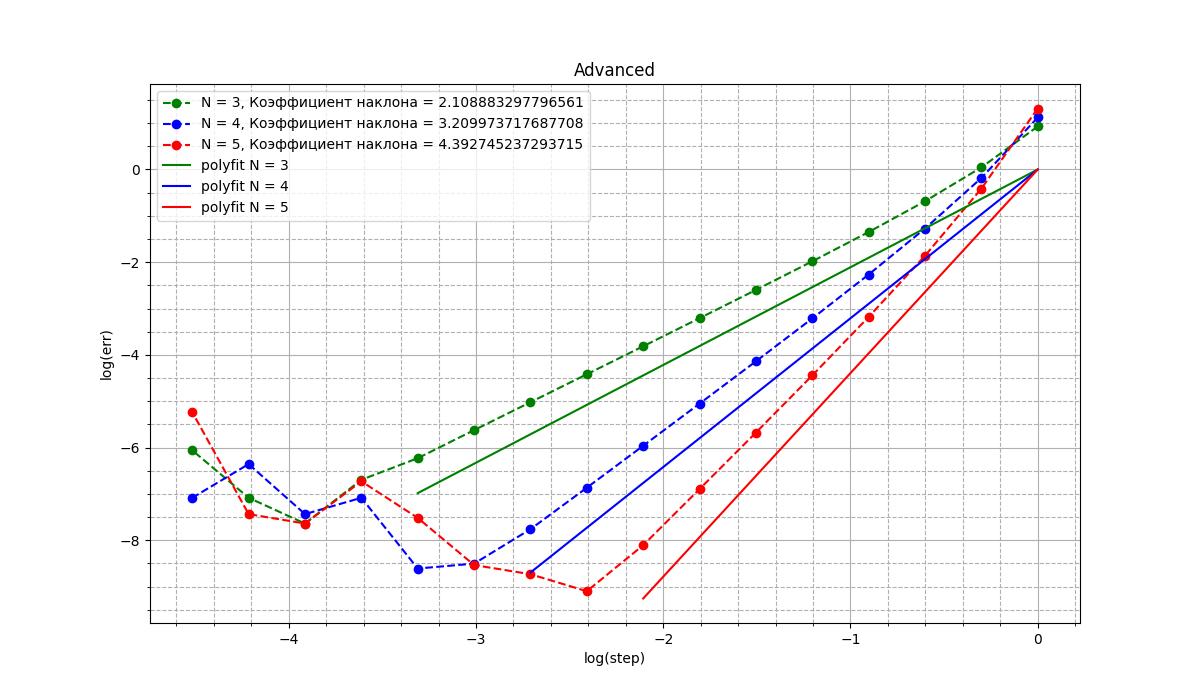
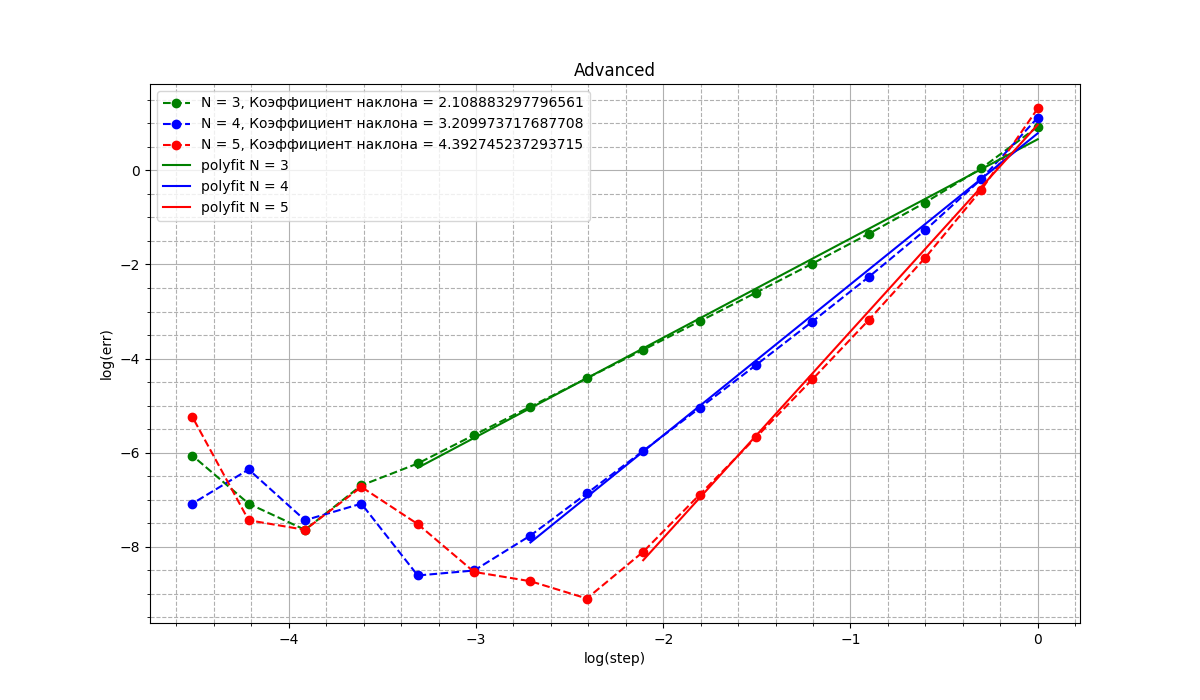
fix2 first lab

diff --git a/tests/NumDiffTest.cpp b/tests/NumDiffTest.cpp
@@ -106,7 +106,7 @@ TEST(NumDiffTests, mainAdvancedTest){
     for(std::uint64_t i =0; i + 1 < h.size(); i++) {
         h[i + 1] = h[i] * 0.5;
     }
-
+    for(auto&& it:h) std::cout<<it<<"\n";
     DerivativeCoef<double, N3> answN3 = calcDerivativeCoef<double, N3, L>(pointsN3);
     for(auto&& it : h){
         double DN3 = answN3.centralCoef * std::exp(x);
@@ -137,4 +137,20 @@ TEST(NumDiffTests, mainAdvancedTest){
     }
     fileOut<<std::endl;
     fileOut.close();
+}
+
+TEST(NumDiffTests, dopQuestionTest){
+    constexpr double x = 1;
+    constexpr std::uint64_t N3 = 3;
+    std::array<double, N3> pointsN3={1., 2., 3.};
+    double epsilon = 2.22044604925031308e-16;
+    double h_opt = std::pow(4*epsilon/3., 0.25);
+    DerivativeCoef<double, N3> answN3 = calcDerivativeCoef<double, N3>(pointsN3);
+    double DN3 = answN3.centralCoef * std::exp(x);
+    for(std::uint64_t j = 0; j < pointsN3.size(); j++){
+        DN3+=answN3.otherCoefs[j] * std::exp(x + pointsN3[j]*h_opt);
+    }
+    std::cout<<h_opt<<" "<<std::abs(DN3/h_opt - std::exp(x));
+
+
 }

diff --git a/py/NumDiff/main.py b/py/NumDiff/main.py
@@ -79,9 +79,9 @@ def grafik2():
              color = 'blue', label=f'N = 4, Коэффициент наклона = {coef2[0]}')
     plt.plot(np.log10(h), np.log10(line3), linestyle='dashed', marker='o', markerfacecolor='red',
              color = 'red', label=f'N = 5, Коэффициент наклона = {coef3[0]}')
-    plt.plot(np.log10(h[:-4]), coef1[0] * np.log10(h[:-4]), label = 'polyfit N = 3', color = 'green')
-    plt.plot(np.log10(h[:-6]), coef2[0] * np.log10(h[:-6]), label = 'polyfit N = 4', color = 'blue')
-    plt.plot(np.log10(h[:-8]), coef3[0] * np.log10(h[:-8]), label = 'polyfit N = 5', color = 'red')
+    plt.plot(np.log10(h[:-4]), coef1[0] * np.log10(h[:-4])+ coef1[1], label = 'polyfit N = 3', color = 'green')
+    plt.plot(np.log10(h[:-6]), coef2[0] * np.log10(h[:-6]) + coef2[1], label = 'polyfit N = 4', color = 'blue')
+    plt.plot(np.log10(h[:-8]), coef3[0] * np.log10(h[:-8]) + coef3[1], label = 'polyfit N = 5', color = 'red')
     plt.xlabel("log(step)")
     plt.ylabel(r"log(err)")
     plt.title("Advanced")
